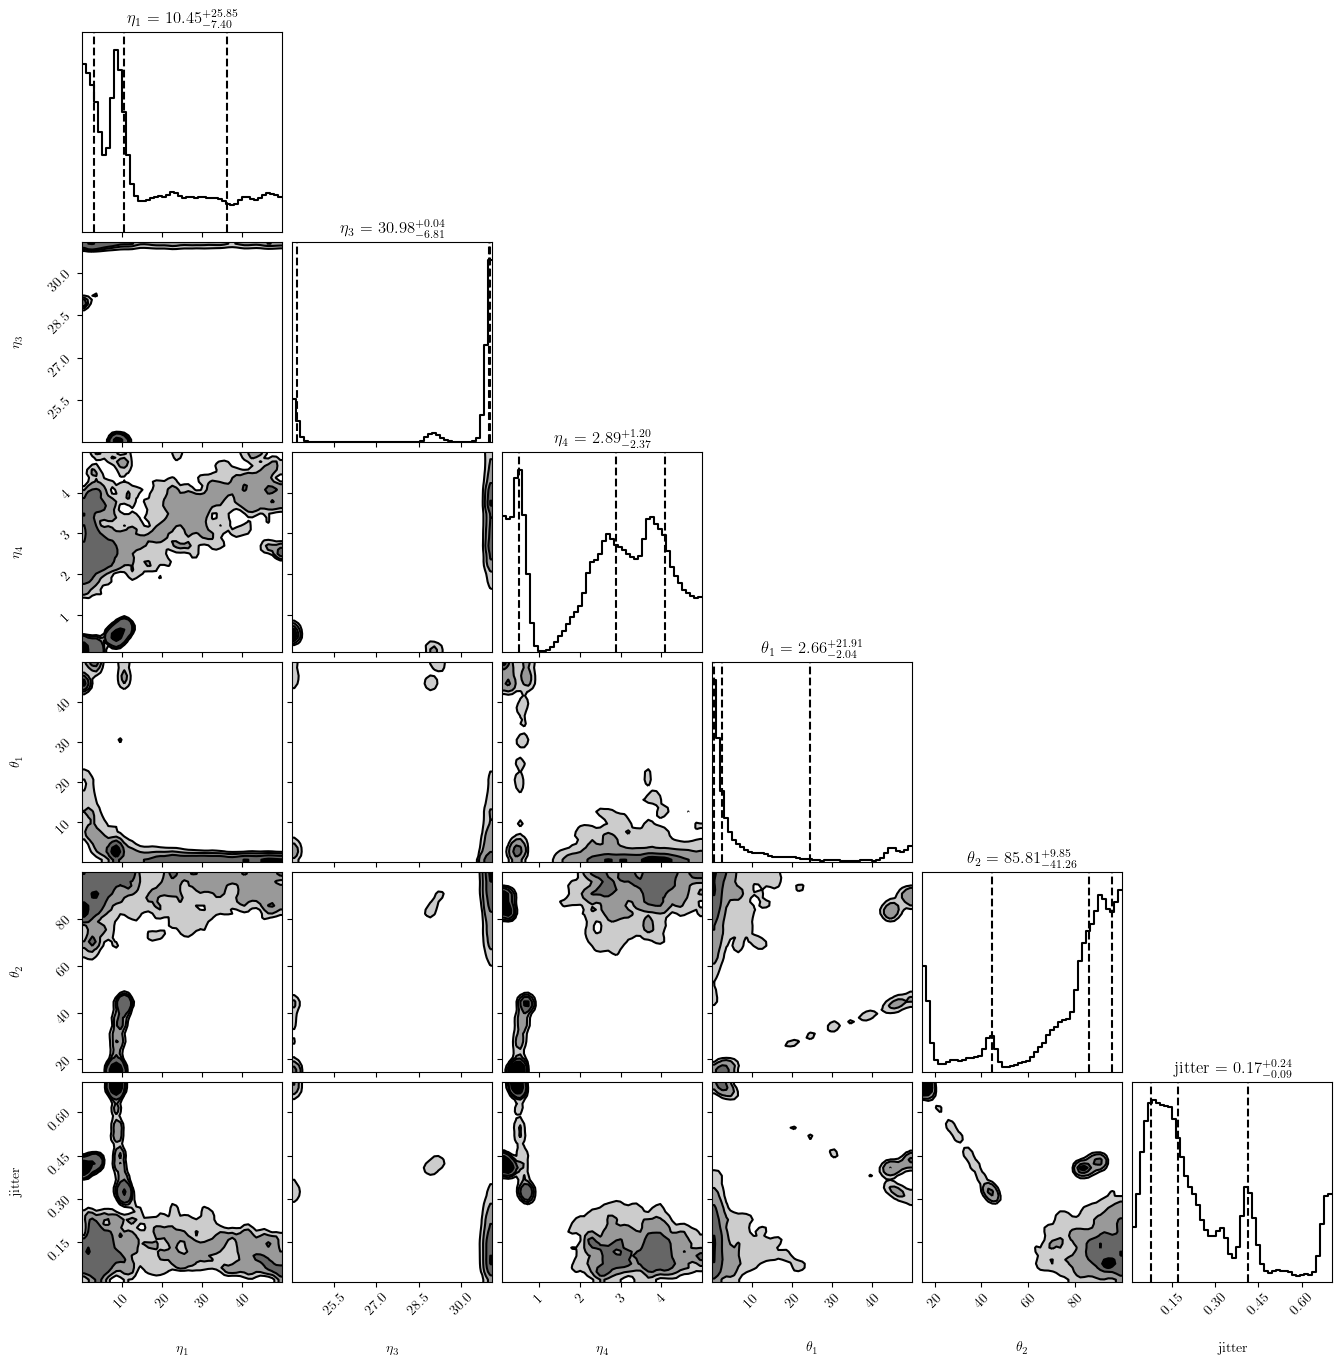
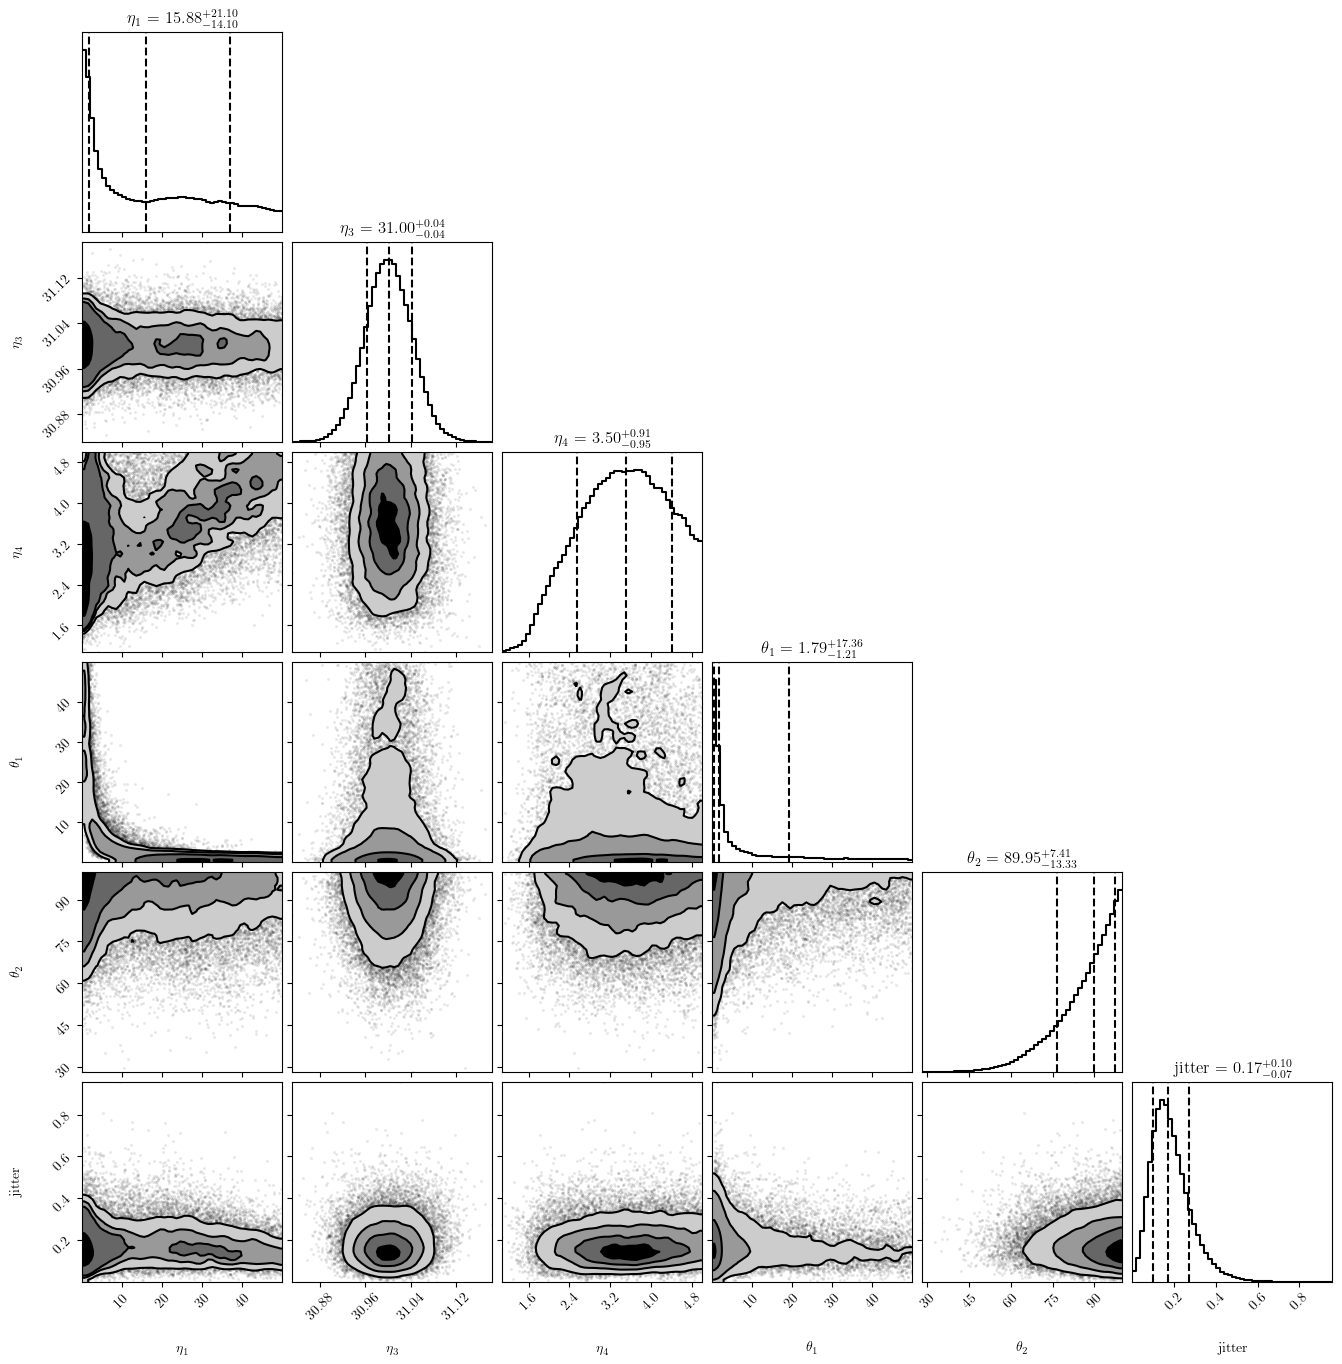
examples

diff --git a/gpyrn/examples/example_4.py b/gpyrn/examples/example_4.py
@@ -58,11 +58,17 @@ def logPosterior(thetas):
 ndim = priors().size 
 nwalkers = 2*ndim
 
+
+filename = "savedProgress.h5"
+backend = emcee.backends.HDFBackend(filename)
+backend.reset(nwalkers, ndim)
+
 pool = Pool(8)
-sampler = emcee.EnsembleSampler(nwalkers, ndim, logPosterior, pool=pool)
+sampler = emcee.EnsembleSampler(nwalkers, ndim, logPosterior,
+                                backend=backend, pool=pool)
                                 
 p0=[priors() for i in range(nwalkers)]
-sampler.run_mcmc(p0, 5000, progress=True)
+sampler.run_mcmc(p0, 100000, progress=True)
 
 #chains plot
 fig, axes = plt.subplots(6, figsize=(7, 12), sharex=True)
